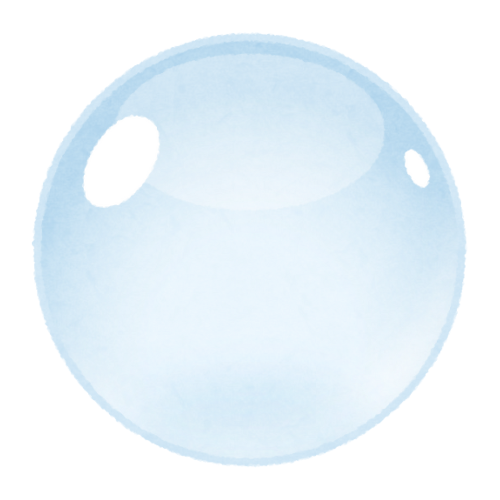
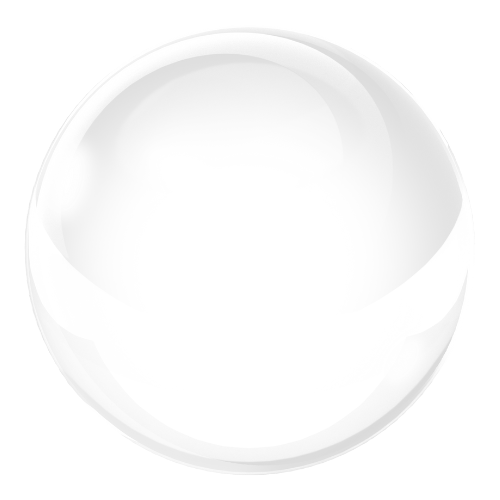
brushing

diff --git a/src/components/lesson/PersonalHygieneLevel2.js b/src/components/lesson/PersonalHygieneLevel2.js
@@ -36,6 +36,7 @@ import toothpasteImg from "../../assets/hygienelevel2/toothpaste.png"
 import toothbrushWithPasteImg from "../../assets/hygienelevel2/with_paste.png"
 import waterCupImg from "../../assets/hygienelevel2/water.png"
 import containerImg from "../../assets/hygienelevel2/cup.png"
+import bubbleImg from "../../assets/hygienelevel2/bubble.png" // Added bubble image
 
 import characterCatDefault from "../../assets/hygienelevel3/cat.png"
 import characterCatExcited from "../../assets/hygienelevel3/cat_excited.png"
@@ -66,6 +67,7 @@ const AssetLoader = ({ onComplete }) => {
     const imageAssets = [
       Bg, bathroomBg, teethImg, afterTeethImg, blob1Img, blob2Img,
       toothbrushImg, toothpasteImg, toothbrushWithPasteImg, waterCupImg, containerImg,
+      bubbleImg, // Added bubble image to preload
       characterCatDefault, characterCatExcited, characterCatCurious, 
       characterCatHelpful, characterCatProud, characterCatWorried,
       require("../../assets/hygienelevel3/resetbtn.png"),
@@ -787,6 +789,7 @@ export default function PersonalHygieneLevel2() {
   
   const [blobs, setBlobs] = useState([]);
   const [blobsRemoved, setBlobsRemoved] = useState(0);
+  const [bubbles, setBubbles] = useState([]); // Added bubbles state
 
   const [dragPosition, setDragPosition] = useState({ x: 0, y: 0 });
   const [isOverToothbrush, setIsOverToothbrush] = useState(false);
@@ -938,6 +941,63 @@ export default function PersonalHygieneLevel2() {
 
     return () => clearInterval(cleanup);
   }, [gamePhase, gameStep]);
+
+  // Clean bubbles
+  useEffect(() => {
+    const cleanupBubbles = setInterval(() => {
+      if (gamePhase === 'brushSequence' && gameStep === 2) {
+        const now = Date.now();
+        setBubbles(prev => prev.filter(bubble => now - bubble.createdAt < 3000));
+      }
+    }, 1000);
+
+    return () => clearInterval(cleanupBubbles);
+  }, [gamePhase, gameStep]);
+
+  // Animate bubbles
+  useEffect(() => {
+    let animationFrameId;
+    
+    const animateBubbles = () => {
+      setBubbles(prevBubbles => {
+        return prevBubbles.map(bubble => {
+          // Calculate age of bubble
+          const age = Date.now() - bubble.createdAt;
+          const lifetime = 3000; // 3 seconds
+          
+          // Update bubble position (float upward)
+          const newY = bubble.y - bubble.speed;
+          const newX = bubble.x + bubble.drift;
+          
+          // Calculate opacity based on age
+          const newOpacity = Math.max(0, bubble.opacity * (1 - age / lifetime));
+          
+          return {
+            ...bubble,
+            x: newX,
+            y: newY,
+            opacity: newOpacity
+          };
+        }).filter(bubble => {
+          // Remove bubbles that are too old or have floated away
+          const age = Date.now() - bubble.createdAt;
+          return age < 3000 && bubble.y > -10 && bubble.opacity > 0.1;
+        });
+      });
+      
+      animationFrameId = requestAnimationFrame(animateBubbles);
+    };
+    
+    if (gamePhase === 'brushSequence' && gameStep === 2 && bubbles.length > 0) {
+      animationFrameId = requestAnimationFrame(animateBubbles);
+    }
+    
+    return () => {
+      if (animationFrameId) {
+        cancelAnimationFrame(animationFrameId);
+      }
+    };
+  }, [gamePhase, gameStep, bubbles.length]);
 
   // Fetch user progress
   useEffect(() => {
@@ -1198,6 +1258,31 @@ export default function PersonalHygieneLevel2() {
     }
   };
 
+  // Create bubbles function
+  const createBubbles = (x, y, count = 3) => {
+    const newBubbles = [];
+    for (let i = 0; i < count; i++) {
+      // Create bubbles mostly in the center area
+      const centerX = 50; // Center of teeth
+      const centerY = 50;
+      const offsetX = (Math.random() - 0.5) * 40; // Mostly within center 40% area
+      const offsetY = (Math.random() - 0.5) * 40;
+      
+      newBubbles.push({
+        id: Date.now() + Math.random(),
+        x: centerX + offsetX, // Center bubbles around teeth center
+        y: centerY + offsetY,
+        size: Math.random() * 20 + 15, // Bubble size (15-35px)
+        opacity: 0.7 + Math.random() * 0.3, // 0.7-1.0 opacity
+        speed: Math.random() * 1.5 + 0.5, // Rising speed
+        drift: (Math.random() - 0.5) * 0.8, // Horizontal drift
+        createdAt: Date.now(),
+        scale: 0.8 + Math.random() * 0.4 // Random scale variation
+      });
+    }
+    setBubbles(prev => [...prev, ...newBubbles]);
+  };
+
   const handleCharacterIntroductionComplete = () => {
     // Stop purrnando audio when introduction is complete
     stopPurrnandoAudio();
@@ -1376,21 +1461,28 @@ export default function PersonalHygieneLevel2() {
         const relativeX = ((e.clientX - containerRect.left) / containerRect.width) * 100;
         const relativeY = ((e.clientY - containerRect.top) / containerRect.height) * 100;
 
-        if (relativeX >= 10 && relativeX <= 90 && relativeY >= 15 && relativeY <= 85) {
+        if (relativeX >= 5 && relativeX <= 95 && relativeY >= 10 && relativeY <= 90) {
           addScratchMark(relativeX, relativeY);
           checkBlobCollision(relativeX, relativeY);
+          
+          // Create bubbles during brushing (step 2)
+          if (gameStep === 2 && toothpasteApplied && Math.random() > 0.7) {
+            createBubbles(relativeX, relativeY, Math.floor(Math.random() * 2) + 1);
+          }
         }
       }
       
-      // Check if score reaches 60% and automatically complete to 100%
-      if (score >= 60 && gameStep === 2 && !step2Completed) {
-        setScore(100);
+      // Check if score reaches 95% and automatically complete step 2
+      if (score >= 95 && gameStep === 2 && !step2Completed) {
         setStep2Completed(true);
         setGameStep(3);
         setWaterCupVisible(true);
         setIsDragging(false);
         setDraggedItem(null);
         playSoundEffect('success');
+        
+        // Stop step 2 audio when moving to step 3
+        stopStepAudio(2);
       }
     }
   };
@@ -1412,7 +1504,7 @@ export default function PersonalHygieneLevel2() {
       setToothpasteApplied(true);
       setPasteSliding(false);
       setGameStep(2);
-      setScore(20);
+      setScore(0); // Start from 0 in step 2
       
       createSparkles();
       
@@ -1448,6 +1540,15 @@ export default function PersonalHygieneLevel2() {
     setIsDragging(true);
     setDraggedItem('toothbrush');
     setToothbrushPosition({ x: e.clientX, y: e.clientY });
+    
+    // Create initial bubbles when starting to brush
+    const teethContainer = teethContainerRef.current;
+    if (teethContainer) {
+      const containerRect = teethContainer.getBoundingClientRect();
+      const relativeX = ((e.clientX - containerRect.left) / containerRect.width) * 100;
+      const relativeY = ((e.clientY - containerRect.top) / containerRect.height) * 100;
+      createBubbles(relativeX, relativeY, 5);
+    }
   };
 
   const handleWaterCupDrag = (e) => {
@@ -1502,10 +1603,14 @@ export default function PersonalHygieneLevel2() {
           Math.pow(brushX - blob.x, 2) + Math.pow(brushY - blob.y, 2)
         );
         
-        const collisionThreshold = Math.max(20, blob.size / 4);
+        const collisionThreshold = Math.max(25, blob.size / 3); // Increased collision area
         
         if (distance < collisionThreshold) {
           playSoundEffect('correct');
+          
+          // Create bubbles when blob is removed
+          createBubbles(blob.x, blob.y, 3);
+          
           return { ...blob, removed: true };
         }
         return blob;
@@ -1525,44 +1630,61 @@ export default function PersonalHygieneLevel2() {
       id: Date.now() + Math.random(),
       x: x,
       y: y,
-      size: Math.random() * 40 + 30,
+      size: Math.random() * 50 + 40, // Increased brush size from 30-70 to 40-90
       timestamp: Date.now()
     };
     
     setScratchMarks(prev => [...prev, newMark]);
     
+    // Expanded bounds for larger brushing area
     const teethBounds = {
-      minX: 15, maxX: 85,
-      minY: 20, maxY: 80  
+      minX: 10, maxX: 90, // Was: minX: 15, maxX: 85
+      minY: 15, maxY: 85  // Was: minY: 20, maxY: 80
     };
     
     if (x >= teethBounds.minX && x <= teethBounds.maxX && 
         y >= teethBounds.minY && y <= teethBounds.maxY) {
       
-      const gridSize = 8;
+      const gridSize = 12; // Increased from 8 for faster coverage
       const gridX = Math.floor((x - teethBounds.minX) / gridSize);
       const gridY = Math.floor((y - teethBounds.minY) / gridSize);
-      const cellKey = `${gridX}-${gridY}`;
+      
+      // Add multiple cells around the brush for larger coverage
+      const cellsToAdd = [];
+      
+      // Add cells in a 3x3 area around the brush (bigger brush path)
+      for (let dx = -1; dx <= 1; dx++) {
+        for (let dy = -1; dy <= 1; dy++) {
+          const cellX = gridX + dx;
+          const cellY = gridY + dy;
+          if (cellX >= 0 && cellY >= 0) {
+            cellsToAdd.push(`${cellX}-${cellY}`);
+          }
+        }
+      }
       
       setTeethCoverage(prev => {
         const newCoverage = new Set(prev);
-        newCoverage.add(cellKey);
+        
+        // Add all cells in the brush area
+        cellsToAdd.forEach(cellKey => {
+          newCoverage.add(cellKey);
+        });
         
         const totalCellsX = Math.ceil((teethBounds.maxX - teethBounds.minX) / gridSize);
         const totalCellsY = Math.ceil((teethBounds.maxY - teethBounds.minY) / gridSize);
         const totalCells = totalCellsX * totalCellsY;
         
-        const coveragePercent = (newCoverage.size / totalCells) * 60;
-        const blobBonus = (blobsRemoved / 5) * 15;
-        let totalScore = 20 + coveragePercent + blobBonus;
+        // Calculate coverage percentage (increased from 85% to 90%)
+        const coveragePercent = (newCoverage.size / totalCells) * 90;
         
-        // Cap the score at 60% if not already completed
-        if (!step2Completed && totalScore >= 60) {
-          totalScore = 60;
-        }
+        // Calculate blob bonus (decreased from 15% to 10% since brushing is faster)
+        const blobBonus = (blobsRemoved / blobs.length) * 10;
+        
+        let totalScore = Math.min(100, coveragePercent + blobBonus);
         
         setScratchedPercentage(coveragePercent + blobBonus);
-        setScore(Math.min(100, totalScore));
+        setScore(totalScore);
         
         return newCoverage;
       });
@@ -1719,6 +1841,7 @@ export default function PersonalHygieneLevel2() {
     
     setBlobs([]);
     setBlobsRemoved(0);
+    setBubbles([]); // Clear bubbles
     
     setShowCharacterIntroduction(false);
     setShowToolIntroduction(false);
@@ -1961,6 +2084,35 @@ export default function PersonalHygieneLevel2() {
             {dropFeedback}
           </Box>
         )}
+
+        {/* Render bubbles */}
+        {gameStep === 2 && bubbles.map(bubble => (
+          <Box
+            key={bubble.id}
+            sx={{
+              position: 'absolute',
+              left: `${bubble.x}%`,
+              top: `${bubble.y}%`,
+              transform: 'translate(-50%, -50%)',
+              zIndex: 998,
+              pointerEvents: 'none',
+              opacity: bubble.opacity,
+              transition: 'opacity 0.3s ease',
+              filter: 'drop-shadow(0 0 8px rgba(255, 255, 255, 0.5))'
+            }}
+          >
+            <img 
+              src={bubbleImg} 
+              alt="Bubble" 
+              style={{
+                width: `${bubble.size}px`,
+                height: `${bubble.size}px`,
+                objectFit: 'contain',
+                transform: `scale(${bubble.scale})`
+              }}
+            />
+          </Box>
+        ))}
 
         <Box sx={{
           position: 'fixed',
